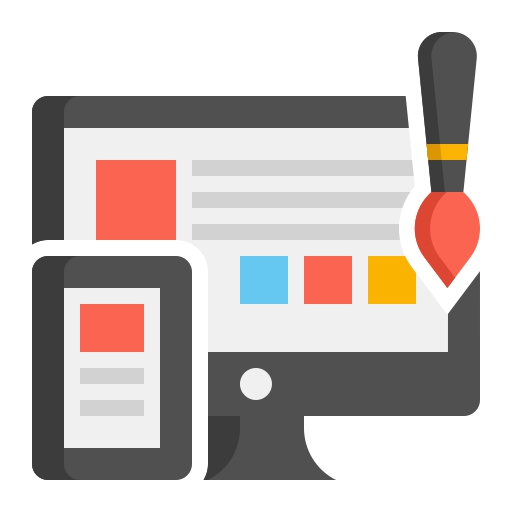
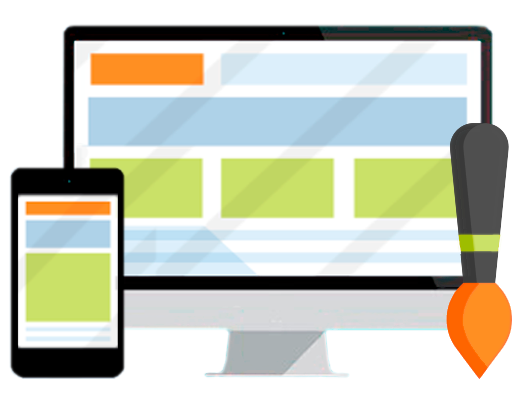
cambios

diff --git a/src/componentes/Conocimientos.jsx b/src/componentes/Conocimientos.jsx
@@ -14,7 +14,7 @@ import canva from "../img/canva.png";
 import java from "../img/java.png";
 import python from "../img/python.png";
 import frontend from "../img/frontend.png";
-import design from "../img/design3.png";
+import design from "../img/design.png";
 import backend from "../img/backend.png";
 import refresh from "../img/refresh.png";
 
